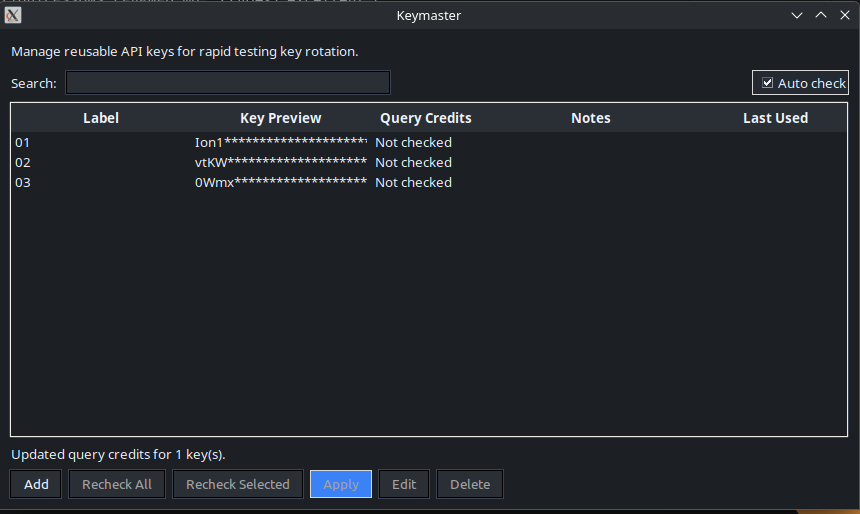
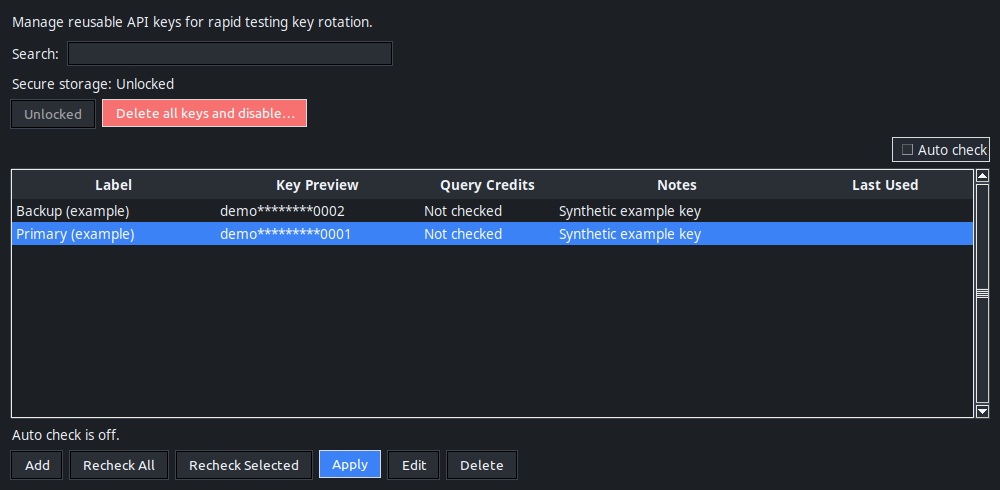
Document current Keymaster controls and refresh desktop screenshot
KSR5 accepted by separate RA. Describe present storage and Apply behavior without incident history, show synthetic keys in the current interface, and correct queued-scan key resolution against runtime code.

Validation: reviewed behavior against implementation; verified README targets, unique Keymaster anchor and 1000x490 PNG integrity; isolated screenshot capture reported no callbacks or external operations; git diff --check passed.

Changed region(s): [[0.0, 0.0, 1.0, 1.0], [0.4535, 0.0, 0.5442, 0.0612]]

diff --git a/docs/TECHNICAL_REFERENCE.md b/docs/TECHNICAL_REFERENCE.md
@@ -1253,72 +1253,134 @@ Integration seam:
 - `experimental/webui/dorkbook_routes.py` owns authenticated library/default routes; `/prefill` remains an alias
 - [Detailed validation, live limitations, and HI checklist](dev/dorkbook/UNIFIED_VALIDATION.md)
 
-Keymaster entry path:
+#### Keymaster
 
-```text
-Dashboard -> Accessories tab -> Open Keymaster
-  -> KeymasterWindow (reads/writes ~/.dirracuda/data/experimental/keymaster.db)
-  -> singleton modeless window (focus existing on repeated open)
-```
+Open **Dashboard → Accessories → Keymaster → Open Keymaster**. The desktop
+manager is a modeless, single-instance window; opening it again focuses the
+existing window. It manages Shodan keys in the shared Keymaster sidecar at
+`~/.dirracuda/data/experimental/keymaster.db`. Analyst LLM tokens also live in
+this store, although they are not listed in the Shodan key table.
 
-Keymaster secure-storage behavior:
+**Storage states and passphrase actions**
 
-- Secure storage policy defaults to enabled and is persisted in sidecar metadata.
-- Desktop opening reads state without prompting: Off, Setup needed, Locked, or Unlocked; malformed/unreadable storage shows Storage problem. Explicit Set passphrase/Enable secure storage and Unlock actions open masked forms with visibility toggles. Setup includes confirmation in the same form; exact input is preserved.
-- PBKDF2-HMAC-SHA256 derives the root key with 600,000 iterations and a random 32-byte salt. HMAC purpose labels derive separate encryption and fingerprint subkeys.
-- AES-GCM encrypts API keys. A keyed HMAC-SHA256 fingerprint supports equality checks and duplicate rejection without storing the fingerprint key.
-- The fingerprint is deterministic within one unlocked store, so equal saved keys have equal fingerprints. That limited equality leak is intentional; the value is never returned to either UI.
-- Successful unlock derives per-session keys for the Keymaster window. Closing clears the window's keys; reopening requires explicit unlock. Session root and subkeys are checked against current metadata before writes and cached-key actions, so pre-reset sessions cannot encrypt new entries under an obsolete key.
-- Legacy plaintext sidecar rows are migrated in place after successful setup/unlock.
-- `Delete all keys and disable…` confirms deletion of every provider's rows and passphrase metadata, requires no password, and persists secure storage off. It clears window session/row/credit caches and invalidates late credit-check results; an already-started request may finish. Applied configuration credentials and backups remain. This is logical deletion, not forensic erasure.
-- Setup cannot overwrite existing or partial passphrase metadata, or orphan encrypted rows. Legacy off-mode stores retaining metadata require explicit reset before fresh setup. Fresh enable encrypts any plaintext entries with the new passphrase in one transaction.
-- Store security operations use savepoints without committing caller work. `destructive_reset(conn, *, secure_mode)` requires an explicit resulting policy; desktop passes `False`. `enable_secure_storage(conn, passphrase)` returns `(session_keys, converted_count)`. `validate_session_keys(conn, session_keys)` checks current ownership. Existing `switch_secure_mode` remains a store conversion API, with no desktop preserve-as-plaintext action.
-- Missing setup, password mismatch, malformed metadata, and storage errors have distinct safe desktop messages. Metadata work factors must be within 100,000–1,000,000 PBKDF2 iterations; generated stores still use 600,000. No schema or cryptographic algorithm change accompanies the recovery controls.
+Opening Keymaster reads the saved state without prompting for a password.
+Storage status remains visible separately from operation messages.
 
-CodeQL alert #23 classifies the API key passed to the fingerprint HMAC as a password sent to a fast hash. The operation is keyed duplicate detection, not password storage: the HMAC key is domain-separated from the AES-GCM key, exists only after passphrase unlock, and is not persisted. The construction follows [HMAC](https://www.rfc-editor.org/info/rfc2104); passphrase derivation follows [PBKDF2](https://www.rfc-editor.org/info/rfc8018). Changing either algorithm to satisfy the alert would weaken or obscure the design, so the alert is handled as a documented false positive.
+| State | Meaning and action |
+| --- | --- |
+| `Setup needed` | Secure storage is enabled by default, but no passphrase exists. Choose `Set passphrase…`. Cancelling leaves setup incomplete. |
+| `Locked` | A passphrase exists, but this window has no unlocked session. Saved row metadata remains visible; choose `Unlock…` to access key material. |
+| `Unlocked` | This window can use encrypted keys. Closing it clears its session; reopening requires unlock. |
+| `Off` | New keys are stored as plaintext. Choose `Enable secure storage…` to set a fresh passphrase and encrypt existing plaintext entries. |
+| `Storage problem` | Storage or security metadata could not be read safely. Sensitive operations are blocked; `Retry storage` rereads the state. |
 
-Apply operation (double-click row, context menu Apply, or Apply button):
+Setup uses passphrase and confirmation fields together. Setup and unlock both
+provide `Show passphrase`; input is preserved exactly, including spaces, case,
+and Unicode. Passphrases must contain 1–1024 UTF-8 bytes. Successful setup or
+unlock encrypts any legacy plaintext entries. Cancelling either form, or entering
+an incorrect passphrase, leaves saved data and storage policy unchanged.
 
-```text
-KeymasterWindow._apply_selected_key()
-  -> write `shodan.api_key` via owner-scoped runtime config update (canonical shard-backed write)
-  -> km_store.touch_last_used(conn, key_id)
-  -> active-scan behavior: running scans keep start-time key; apply affects future scans only
-```
+**Delete, disable, and start again**
 
-Config path resolution:
-1. Canonical runtime config path (`~/.dirracuda/conf/config.json` compatibility view over shards).
-2. Explicit non-canonical paths are treated as internal/test-only compatibility surfaces.
+`Delete all keys and disable…` is available without the old passphrase, including
+when setup is incomplete or the store is locked. Its destructive confirmation
+covers **every Keymaster provider**, including Shodan keys and Analyst LLM tokens.
+Confirmation deletes the rows and passphrase metadata and persists storage off
+in one transaction. Cancellation changes nothing; a failed transaction retains
+the prior data and mode.
 
-Key table columns: `Label`, `Key Preview`, `Query Credits`, `Notes`, `Last Used`.
+Successful deletion clears the window's session, displayed entries, and cached
+credit results. Results from earlier credit checks are discarded, although a
+request already in progress may finish. The window stays `Off` and does not
+launch setup. Choose `Enable secure storage…` when ready to start again; new
+passphrase metadata, encryption of any subsequently saved plaintext entries,
+and the enabled policy are committed together.
 
-Key Preview format: keys longer than 8 characters show as `first4 + asterisks + last4`; shorter keys are fully masked.
+This action only clears Keymaster. Credentials already applied to configuration
+and separately held backups remain. Deletion is application-level removal,
+not forensic disk erasure. The desktop has no disable-and-retain-plaintext
+option. Historical off-mode stores that still contain passphrase metadata must
+be explicitly reset before creating a fresh passphrase.
 
-Keymaster sidecar schema (`experimental/keymaster/store.py`) includes:
+**Recovery messages**
 
-- `keymaster_keys` row metadata plus encrypted-at-rest fields (`key_ciphertext`, `key_fingerprint`, `is_encrypted`)
-- `keymaster_meta` policy/KDF metadata (secure-mode flag, KDF algorithm settings, salt, verifier)
+| Condition | Current behavior / recovery |
+| --- | --- |
+| Incorrect passphrase | Saved keys remain intact. Retry the exact passphrase, or deliberately delete and disable to start over. |
+| No passphrase configured | Choose `Set passphrase…` to complete setup. |
+| Damaged or incomplete security metadata | Unlock cannot proceed safely. Delete and disable is available to start over, with loss of all Keymaster entries. |
+| Previous passphrase still stored | Fresh setup cannot overwrite it; explicit reset is required before new setup. |
+| Expired unlock session | Unlock again; session material from an earlier store configuration cannot be reused. |
+| Storage cannot be accessed | Check file availability and permissions, then retry. Reset also requires writable storage. |
 
-Runtime state guards:
+**Encryption and persistence**
 
-- Schema/column/index checks run on sidecar open; failures raise explicit runtime errors.
-- Secure-mode CRUD/apply/query-credit operations require unlocked session material.
+PBKDF2-HMAC-SHA256 derives a root key using 600,000 iterations and a random
+32-byte salt. Persisted work factors are validated within 100,000–1,000,000
+iterations. HMAC purpose labels derive separate encryption and fingerprint
+subkeys. AES-GCM encrypts key material; a keyed HMAC-SHA256 fingerprint supports
+duplicate rejection. Equal keys within one store have equal fingerprints; these
+values are not displayed in the desktop or Web UI. Labels, notes, and usage
+metadata are not encrypted by this mechanism.
 
-Add/Edit modal: Label, API Key (masked entry; no reveal toggle in v1), Notes.
+The sidecar contains `keymaster_keys` (row metadata, ciphertext, fingerprint,
+and encryption flag) and `keymaster_meta` (storage policy, KDF settings, salt,
+and verifier). Schema, column, and index checks run on open. Setup refuses to
+overwrite existing or partial passphrase metadata or orphaned encrypted rows.
+Session root and subkeys are validated against current metadata before secure
+writes and cached-key actions, preventing pre-reset sessions from writing under
+obsolete keys.
 
-Delete: requires confirmation; no session-mute option in v1.
+`experimental/keymaster/store.py` owns persistence. Security operations use
+savepoints while leaving the final commit to the caller:
 
-#### Keymaster credit-check limits
+- `enable_secure_storage(conn, passphrase)` returns session keys and the number
+  of converted plaintext rows.
+- `destructive_reset(conn, *, secure_mode)` requires an explicit resulting mode;
+  desktop recovery passes `False`.
+- `validate_session_keys(conn, session_keys)` checks current session ownership.
+- `switch_secure_mode` remains a store conversion API, separate from the
+  desktop's delete-and-disable action.
 
-- Burst balance checks are capped at 5 saved keys.
-- Startup auto-check runs only when:
-  - `Auto check` is enabled
-  - saved key count is `<= 5`
-- When saved key count is `> 5`:
-  - startup auto-check is skipped (status-line message)
-  - `Recheck All` is disabled (button + context menu)
-  - `Recheck Selected` remains available
-- `Auto check` is persisted in GUI settings under `keymaster.auto_check_query_credits`.
+`gui/components/keymaster_security.py` owns desktop security state and forms;
+`gui/components/keymaster_window.py` owns the table and key actions.
+
+The fingerprint HMAC is keyed equality detection, not passphrase hashing.
+Its domain-separated key exists only after unlock and is not persisted.
+See [HMAC](https://www.rfc-editor.org/info/rfc2104) and
+[PBKDF2](https://www.rfc-editor.org/info/rfc8018) for the underlying constructions.
+
+**Saved keys and Apply**
+
+The table shows `Label`, `Key Preview`, `Query Credits`, `Notes`, and `Last Used`.
+For available keys longer than eight characters, previews show
+`first4 + asterisks + last4`; shorter keys are fully masked. Encrypted keys show
+`Locked` until unlocked. Add/Edit offers Label, a masked API Key field, and Notes.
+Deleting an individual entry requires confirmation.
+
+Select a key and use `Apply`, the context menu, or a double-click. Double-clicking
+a locked row opens unlock; after success, Apply reads that selected key from the
+store. Cancellation, an incorrect passphrase, or a missing selected entry leaves
+the active configuration unchanged.
+
+Apply writes `shodan.api_key` through the owner-scoped runtime config update and
+updates the key's Last Used timestamp. The canonical compatibility view is
+`~/.dirracuda/conf/config.json`, backed by configuration shards; explicit
+non-canonical paths are internal/test compatibility surfaces. Apply affects
+scans launched afterward: running scans retain their launch-time key. Queued
+scans resolve their key when launched, unless a run-specific override is supplied.
+Keymaster's encryption does not extend to credentials written to configuration.
+
+**Credit checks**
+
+- Burst checks cover at most five saved Shodan keys. Above five, startup checking
+  is skipped and `Recheck All` is disabled; `Recheck Selected` remains available
+  once key material is accessible.
+- Startup auto-check requires `Auto check` enabled and accessible key material.
+  Opening a locked store does not prompt or check credits. Unlock does not
+  automatically start a check; use `Recheck All` or `Recheck Selected` afterward.
+- `Auto check` is persisted as `keymaster.auto_check_query_credits` in GUI settings.
+
 
 Censys Discovery status:
 - Development suspended for now due free-tier API entitlement constraints on candidate-list query endpoints.

diff --git a/README.md b/README.md
@@ -593,33 +593,46 @@ before migration. See [upgrade/recovery](docs/dev/dorkbook/U1_VALIDATION.md) and
 
 ### Keymaster
 
-Keymaster stores reusable Shodan API keys for rapid key rotation during testing.
+Keymaster stores reusable Shodan API keys so you can select which key future scans use.
+
+![Keymaster unlocked, showing the current storage controls and synthetic example keys](img/keymaster.png)
+
+*Example entries only; no live credentials or credit results are shown.*
 
 Quick start:
+
 1. Dashboard → `⚗ Accessories` → `Keymaster` tab.
 2. Click `Open Keymaster`.
 3. At `Setup needed`, choose `Set passphrase…` and enter a dedicated Keymaster passphrase twice.
-4. When reopening Keymaster, choose `Unlock…`. Opening the window does not prompt automatically.
-5. Add one or more keys with a label, API key, and optional notes.
-6. Select a key and click `Apply` (or double-click the row, or use the right-click menu).
+4. Add one or more keys with a label, API key, and optional notes.
+5. Select a key and click `Apply` (or double-click the row, or use the right-click menu).
+
+When reopening Keymaster, choose `Unlock…`. Opening the window does not prompt
+automatically; saved rows remain visible while locked. Double-clicking a locked
+row prompts for the passphrase, then applies that key after successful unlock.
 
 What Apply does:
+
 - Writes the selected key to `shodan.api_key` in the active config file.
-- Affects future scans only — a scan already running or queued continues with the key that was active at launch.
+- Affects scans launched afterward. A running scan keeps its launch-time key; a queued scan resolves its key when it starts, unless it has a run-specific override.
 
 Sidecar DB path: `~/.dirracuda/data/experimental/keymaster.db`
 
 Storage behavior:
+
 - The status reads `Off`, `Setup needed`, `Locked`, or `Unlocked`. New stores start at `Setup needed`; a storage error shows `Storage problem` with a retry action.
 - Secure storage encrypts saved key material at rest. Existing plaintext entries are encrypted on successful setup/unlock.
-- Setup and unlock preserve spaces and capitalization. Both forms offer `Show passphrase`; setup includes confirmation in the same form.
+- Setup and unlock preserve exact input, including spaces, capitalization, and Unicode. Both forms offer `Show passphrase`; setup includes confirmation in the same form. Closing Keymaster ends its unlock session.
 - To start over, choose `Delete all keys and disable…` and confirm. This requires **no old passphrase**, deletes every saved Keymaster entry (including Analyst LLM tokens), removes the passphrase, and leaves storage **off**.
 - With storage off, newly saved keys are plaintext. Choose `Enable secure storage…` to set a fresh passphrase and encrypt them. Old opt-out stores that retain passphrase metadata must be reset before fresh setup.
+- Cancelling setup, unlock, or the delete-and-disable confirmation leaves saved data and storage mode unchanged. An incorrect passphrase also leaves saved keys intact.
 - Reset does not clear credentials already applied to configuration or remove backups. It is application-level deletion, not secure disk erasure.
 
 Key table columns: `Label`, `Key Preview`, `Query Credits`, `Notes`, `Last Used`.
 
-Key Preview format: keys longer than 8 characters show as `first4 + asterisks`; shorter keys are fully masked.
+Key Preview format: available keys longer than 8 characters show as `first4 + asterisks + last4`; shorter keys are fully masked. Encrypted keys show `Locked` until unlocked.
+
+See the [technical reference](docs/TECHNICAL_REFERENCE.md#keymaster) for storage, recovery, and credit-check details.
 
 ### Sherlock
 

diff --git a/docs/dev/keymaster/SECURE_STORAGE_RECOVERY.md b/docs/dev/keymaster/SECURE_STORAGE_RECOVERY.md
@@ -1,6 +1,6 @@
 # Keymaster secure storage recovery
 
-Status: KSR1–KSR4 accepted; KSR5 documentation review in progress, 2026-10-13.
+Status: KSR1–KSR5 implemented and accepted by a separate RA, 2026-10-13.
 Track: full process. PA/DA: primary session. RA: separate reviewer.
 
 ## Goal and evidence
@@ -256,3 +256,37 @@ synthetic entries in an isolated store, and retain recovery boundaries without
 turning the reference into an edit history. No product changes are planned.
 Validate links, screenshot readability, and behavioral accuracy; a separate RA
 reviews and accepts this documentation card. Rollback uses a new revert commit.
+
+KSR5 accepted by separate RA on 2026-10-13. README and the technical reference
+describe current controls, exact-input passphrases, reset boundaries, Apply,
+storage internals, and credit checks. Dialog-remediation and acceptance history
+remain in this development packet. The refreshed screenshot shows the current
+unlocked window with two synthetic entries and no queried credit results.
+
+RA required one accuracy correction: queued scans do not universally retain
+the key from queue creation. `dashboard_scan.launch_next_queued_scan` builds
+each protocol's options at launch; without `api_key_override`, the backend
+loads current effective configuration. Both manuals now distinguish running
+scans from queued scans and explain run-specific overrides. No product change
+was needed. This illustrates why copying a prior manual statement is not a
+substitute for checking runtime behavior.
+
+DA screenshot command:
+`xvfb-run -a -s '-screen 0 1280x800x24' ./venv/bin/python
+/tmp/keymaster-doc-capture.py` reported **PASS: captured current Keymaster;
+two synthetic keys; no callback errors or external operations**. RA inspected
+the capture harness and image. The harness used a disposable dialog-audit
+environment; no live keys or configuration were accessed.
+
+Independent RA checks with `./venv/bin/python - <<'PY'` verified README targets,
+the unique technical-reference Keymaster anchor, and PNG integrity at
+1000×490 pixels: **PASS: README targets, unique Keymaster anchor, PNG integrity
+(1000x490)**. `git diff --check` passed. Product tests were not repeated for this
+documentation-only card. No Blocker or Required findings remain.
+
+Historical disposition retained from the prior technical reference: CodeQL
+alert #23 was documented as a false positive because the flagged HMAC performs
+keyed duplicate detection, not passphrase hashing. Its domain-separated key is
+derived after PBKDF2 and is not persisted. This records the previous disposition;
+the current remote alert state was not checked during KSR5. The manuals retain
+the cryptographic architecture explanation without alert-triage history.
